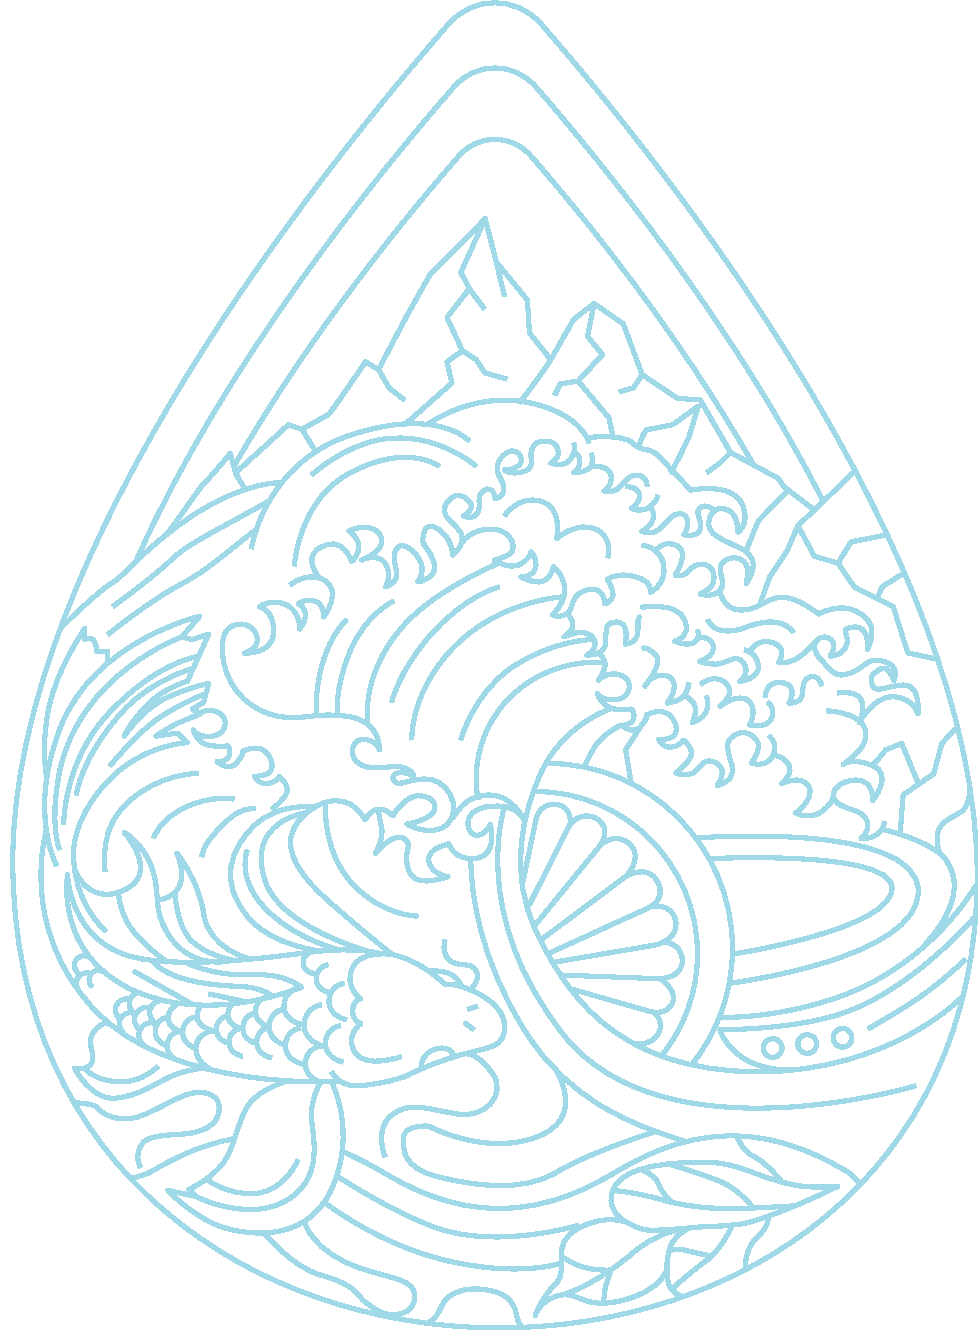
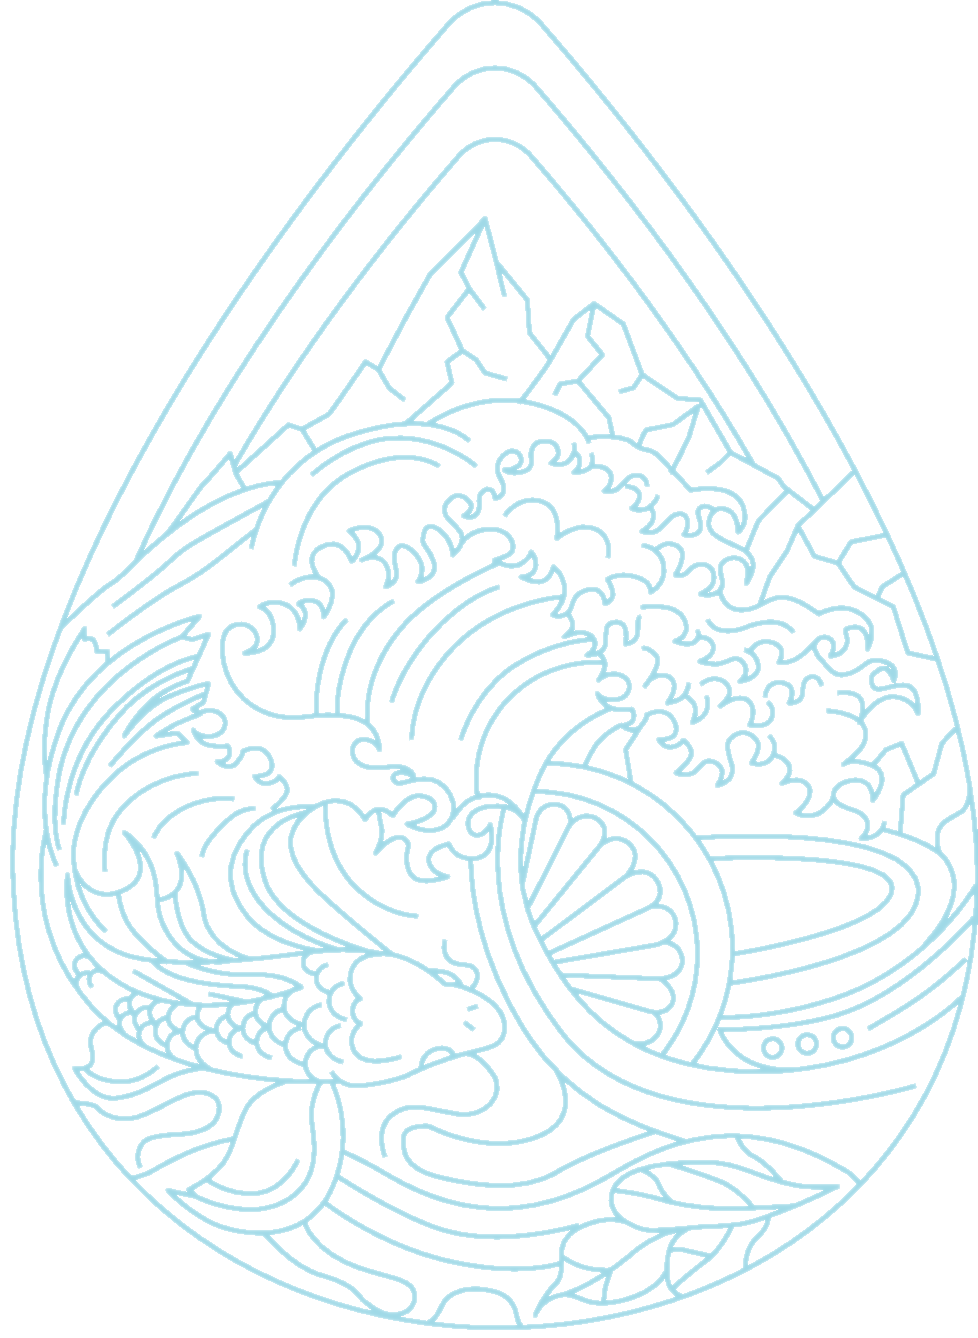
workinktemplate

diff --git a/css/cover.css b/css/cover.css
@@ -86,31 +86,67 @@ body {
 .form-control {
   display: block;
   width: 100%;
-  height: calc(1.5em + .75rem + 2px);
-  padding: .375rem .75rem;
-  font-size: 1rem;
+  height: auto;
+  padding: .75rem 1.25rem;
+  margin-bottom: 0.5rem;
+  font-size: 1.25rem;
   font-weight: 400;
   line-height: 1.5;
   color: #fff;
   background-color: transparent;
   background-clip: padding-box;
   border: 3px solid #fff;
+  border-radius: 0rem;
   transition: border-color .15s ease-in-out,box-shadow .15s ease-in-out;
 }
 .btn-primary {
   color: #0D4941;
   background-color: #fff;
   border-color: #fff;
+  border-radius: 0rem;
+}
+.btn-primary:hover {
+  color: #fff;
+  background-color: #aedcec;
+  border-color: #aedcec;
+}
+
+.btn-primary:focus, .btn-primary.focus {
+  color: #fff;
+  background-color: #aedcec;
+  border-color: #aedcec;
+}
+
+.btn-primary.disabled, .btn-primary:disabled {
+  color: #fff;
+  background-color: #aedcec;
+  border-color: #aedcec;
+}
+
+.btn-primary:not(:disabled):not(.disabled):active, .btn-primary:not(:disabled):not(.disabled).active,
+.show > .btn-primary.dropdown-toggle {
+  color: #fff;
+  background-color: #aedcec;
+  border-color: #aedcec;
+}
+
+.btn-primary:not(:disabled):not(.disabled):active:focus, .btn-primary:not(:disabled):not(.disabled).active:focus,
+.show > .btn-primary.dropdown-toggle:focus {
+  color: #fff;
+  background-color: #aedcec;
+  border-color: #aedcec;
 }
 input::-webkit-input-placeholder 
 { color: #fff; }
 /*
  * Footer
  */
-.mastfoot {
+.mastfoot #logo{
+  margin-top: 3rem;
+  max-width: 200px;
   /* color: rgba(255, 255, 255, .5); */
 }
  #logo {
-   max-width: 250px;
+   max-width: 300px;
  }
  

diff --git a/index.html b/index.html
@@ -43,7 +43,7 @@
 
   <main role="main" class="inner cover">
     <div class="row justify-content-center">
-      <h1 class="cover-heading">ЗАКАЗ ДЕГУСТАЦИОННОГО НАБОРА С ДОСТАВКОЙ НА ДОМ</h1>
+      <h1 class="cover-heading mb-4">ЗАКАЗ ДЕГУСТАЦИОННОГО НАБОРА С ДОСТАВКОЙ НА ДОМ</h1>
       <div class="col-8 justify-content-center text-center">
       <form class="form-signin">
         <label for="inputName" class="sr-only">ИМЯ</label>
@@ -58,7 +58,7 @@
 
   <footer class="mastfoot mt-auto">
     <div class="inner">
-      <img id="logo" src="images/drops1.png" class="img-fluid mb-1" alt="Sibolle.">
+      <img id="logo" src="images/drops.png" class="img-fluid mb-1" alt="Sibolle.">
     </div>
   </footer>
 </div>
